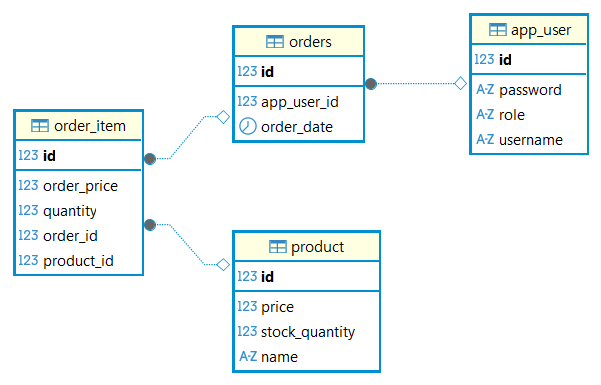
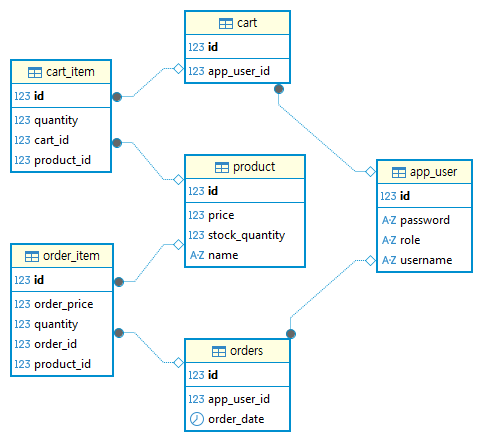
README 수정

diff --git a/README.md b/README.md
@@ -29,11 +29,9 @@
  ---
 ## 🎨 데이터베이스 모델링 (ERM)
 
-프로젝트의 데이터 구조는 다음과 같이 설계되었으며, 
+프로젝트의 데이터 구조는 다음과 같이 설계되었습니다. 
 
-`Member` (사용자), `Product` (상품), `Order` (주문), `OrderItem` (주문 상품)
-
-테이블 간의 연관관계를 중점적으로 매핑하였습니다.
+`Member` (사용자), `Product` (상품), `Order` (주문), `OrderItem` (주문 상품), `Cart` (카트), `CartItem` (카트 상품)
 
 ![ecommerceERM.png](ecommerceERM.png)
  ---
